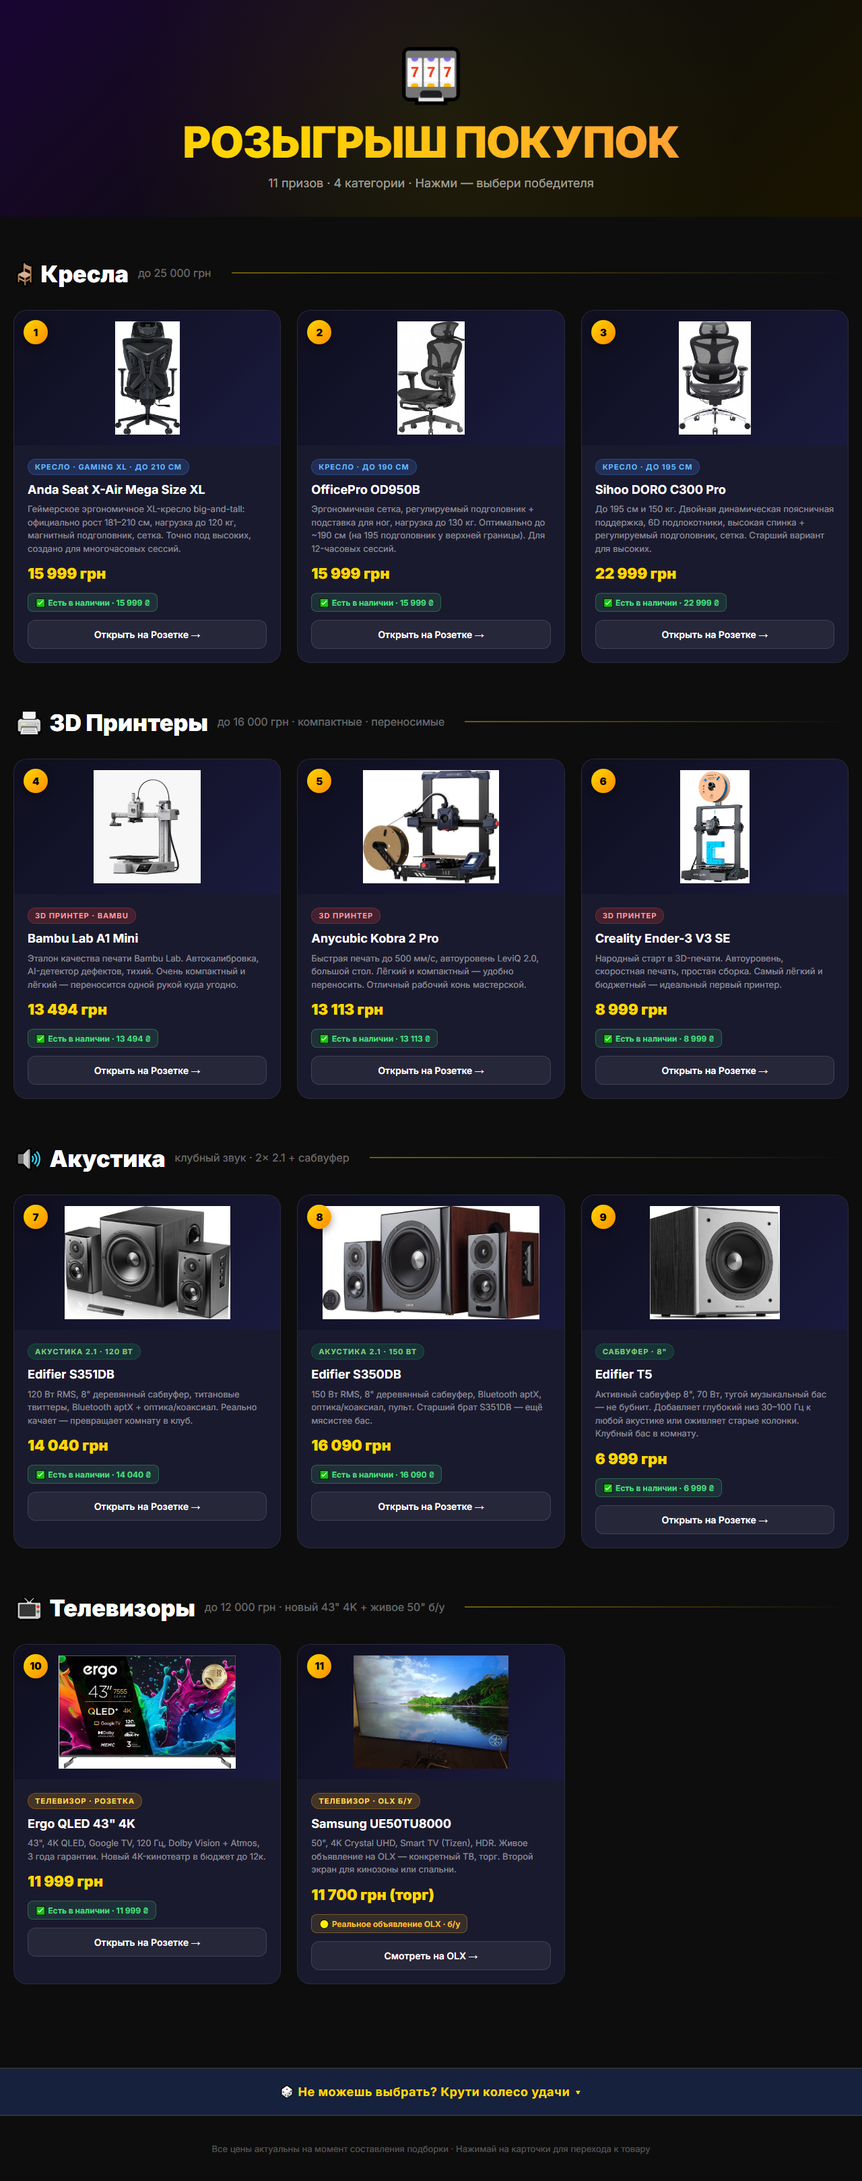
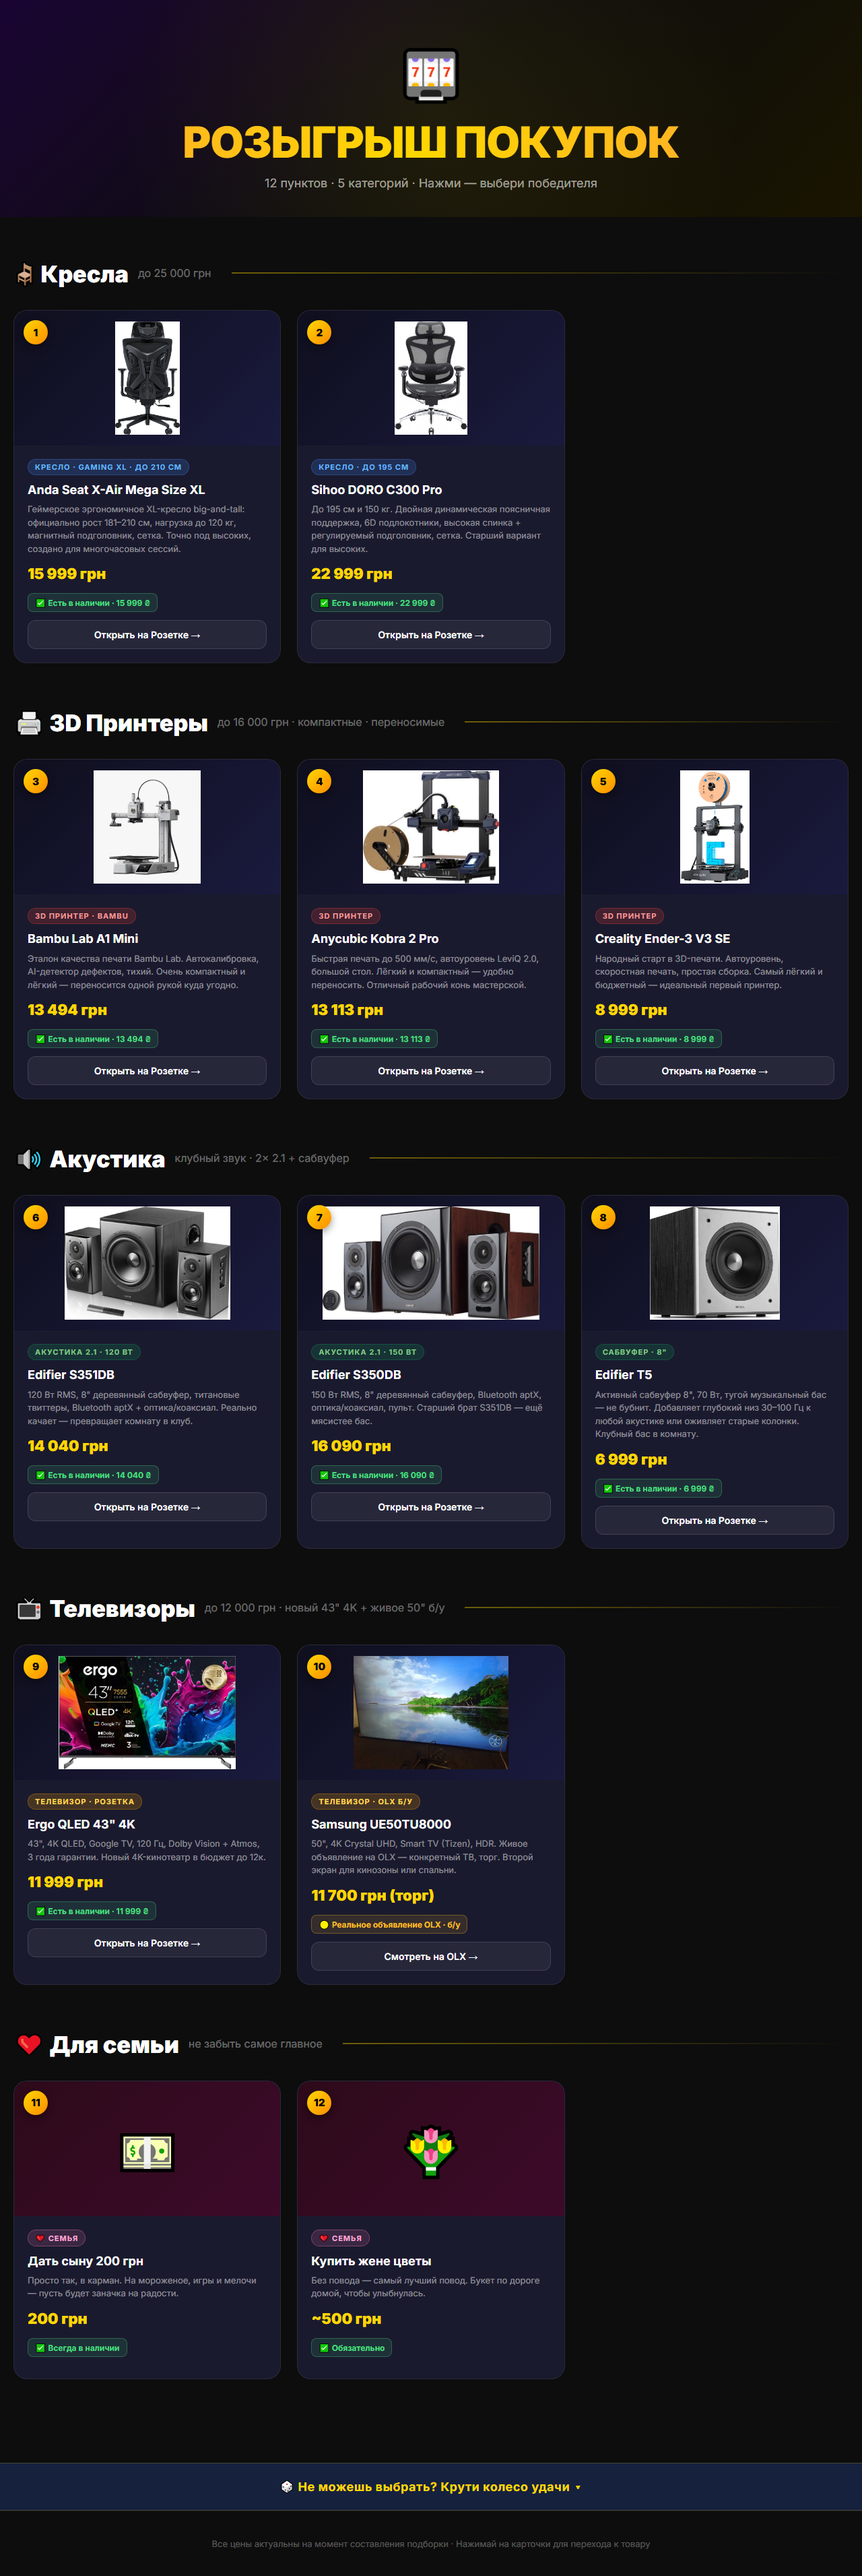
Убрать пограничное кресло OfficePro, добавить фановую категорию «Для семьи»
- Удалён OfficePro OD950B (рост ~190см, на границе для 195см); кресла теперь 2 гарантированно-высоких (AndaSeat до 210, Sihoo C300 Pro до 195)
- Перенумерованы карточки 1-12 без пропусков
- Новая категория «❤ Для семьи»: «Дать сыну 200 грн» + «Купить жене цветы»
- Шапка: 12 пунктов · 5 категорий

diff --git a/index.html b/index.html
@@ -274,7 +274,7 @@
 <header>
   <span class="header-icon">🎰</span>
   <h1>РОЗЫГРЫШ ПОКУПОК</h1>
-  <p class="subtitle">11 призов · 4 категории · Нажми — выбери победителя</p>
+  <p class="subtitle">12 пунктов · 5 категорий · Нажми — выбери победителя</p>
 </header>
 
 <!-- ТОВАРЫ -->
@@ -298,22 +298,8 @@
       </div>
     </div>
 
-    <div class="card" data-num="2" onclick="window.open('https://rozetka.com.ua/ua/officepro-od950b/p538166189/','_blank')">
+    <div class="card" data-num="2" onclick="window.open('https://rozetka.com.ua/ua/sihoo-doro-c300-pro-m101/p538166214/','_blank')">
       <div class="ticket-number">2</div>
-      <img class="product-img" src="images/chair2.jpg" alt="OfficePro OD950B" onerror="this.style.display='none';this.nextElementSibling.style.display='flex'">
-      <div class="product-img-placeholder" style="display:none">🪑</div>
-      <div class="card-body">
-        <span class="card-category-badge badge-chair">Кресло · до 190 см</span>
-        <div class="card-name">OfficePro OD950B</div>
-        <div class="card-desc">Эргономичная сетка, регулируемый подголовник + подставка для ног, нагрузка до 130 кг. Оптимально до ~190 см (на 195 подголовник у верхней границы). Для 12-часовых сессий.</div>
-        <div class="card-price">15 999 грн</div>
-        <div class="stock stock-in">✅ Есть в наличии · 15 999 ₴</div>
-        <a class="card-link" href="https://rozetka.com.ua/ua/officepro-od950b/p538166189/" target="_blank" onclick="event.stopPropagation()">Открыть на Розетке →</a>
-      </div>
-    </div>
-
-    <div class="card" data-num="3" onclick="window.open('https://rozetka.com.ua/ua/sihoo-doro-c300-pro-m101/p538166214/','_blank')">
-      <div class="ticket-number">3</div>
       <img class="product-img" src="images/p3.jpg" alt="Sihoo DORO C300 Pro" onerror="this.style.display='none';this.nextElementSibling.style.display='flex'">
       <div class="product-img-placeholder" style="display:none">🪑</div>
       <div class="card-body">
@@ -332,8 +318,8 @@
   <div class="category-title">🖨 3D Принтеры <span style="font-size:16px;color:rgba(255,255,255,0.4);font-weight:400;">до 16 000 грн · компактные · переносимые</span></div>
   <div class="grid">
 
-    <div class="card" data-num="4" onclick="window.open('https://rozetka.com.ua/ua/464214894/p464214894/','_blank')">
-      <div class="ticket-number">4</div>
+    <div class="card" data-num="3" onclick="window.open('https://rozetka.com.ua/ua/464214894/p464214894/','_blank')">
+      <div class="ticket-number">3</div>
       <img class="product-img" src="images/a1mini.jpg" alt="Bambu Lab A1 Mini" onerror="this.style.display='none';this.nextElementSibling.style.display='flex'">
       <div class="product-img-placeholder" style="display:none;background:linear-gradient(135deg,#1a0a00,#3d1a00)">🖨</div>
       <div class="card-body">
@@ -346,8 +332,8 @@
       </div>
     </div>
 
-    <div class="card" data-num="5" onclick="window.open('https://rozetka.com.ua/ua/3d_printers-anycubic-154557038/p555913074/','_blank')">
-      <div class="ticket-number">5</div>
+    <div class="card" data-num="4" onclick="window.open('https://rozetka.com.ua/ua/3d_printers-anycubic-154557038/p555913074/','_blank')">
+      <div class="ticket-number">4</div>
       <img class="product-img" src="images/third.jpg" alt="Anycubic Kobra 2 Pro" onerror="this.style.display='none';this.nextElementSibling.style.display='flex'">
       <div class="product-img-placeholder" style="display:none;background:linear-gradient(135deg,#1a0a0a,#3d0a0a)">🖨</div>
       <div class="card-body">
@@ -360,8 +346,8 @@
       </div>
     </div>
 
-    <div class="card" data-num="6" onclick="window.open('https://rozetka.com.ua/ua/creality-ender-3-v3-se/p397954095/','_blank')">
-      <div class="ticket-number">6</div>
+    <div class="card" data-num="5" onclick="window.open('https://rozetka.com.ua/ua/creality-ender-3-v3-se/p397954095/','_blank')">
+      <div class="ticket-number">5</div>
       <img class="product-img" src="images/endse.jpg" alt="Creality Ender-3 V3 SE" onerror="this.style.display='none';this.nextElementSibling.style.display='flex'">
       <div class="product-img-placeholder" style="display:none;background:linear-gradient(135deg,#000d1a,#001a3d)">🖨</div>
       <div class="card-body">
@@ -380,8 +366,8 @@
   <div class="category-title">🔊 Акустика <span style="font-size:16px;color:rgba(255,255,255,0.4);font-weight:400;">клубный звук · 2× 2.1 + сабвуфер</span></div>
   <div class="grid">
 
-    <div class="card" data-num="7" onclick="window.open('https://rozetka.com.ua/ua/591670591/p591670591/','_blank')">
-      <div class="ticket-number">7</div>
+    <div class="card" data-num="6" onclick="window.open('https://rozetka.com.ua/ua/591670591/p591670591/','_blank')">
+      <div class="ticket-number">6</div>
       <img class="product-img" src="images/speaker7.jpg" alt="Edifier S351DB" onerror="this.style.display='none';this.nextElementSibling.style.display='flex'">
       <div class="product-img-placeholder" style="display:none;background:linear-gradient(135deg,#0a1a0a,#1a2a0a)">🔊</div>
       <div class="card-body">
@@ -394,8 +380,8 @@
       </div>
     </div>
 
-    <div class="card" data-num="8" onclick="window.open('https://rozetka.com.ua/ua/581098624/p581098624/','_blank')">
-      <div class="ticket-number">8</div>
+    <div class="card" data-num="7" onclick="window.open('https://rozetka.com.ua/ua/581098624/p581098624/','_blank')">
+      <div class="ticket-number">7</div>
       <img class="product-img" src="images/p8.jpg" alt="Edifier S350DB" onerror="this.style.display='none';this.nextElementSibling.style.display='flex'">
       <div class="product-img-placeholder" style="display:none;background:linear-gradient(135deg,#0a0a1a,#1a1a0a)">🔊</div>
       <div class="card-body">
@@ -408,8 +394,8 @@
       </div>
     </div>
 
-    <div class="card" data-num="9" onclick="window.open('https://rozetka.com.ua/ua/edifier_t5_sw/p127603179/','_blank')">
-      <div class="ticket-number">9</div>
+    <div class="card" data-num="8" onclick="window.open('https://rozetka.com.ua/ua/edifier_t5_sw/p127603179/','_blank')">
+      <div class="ticket-number">8</div>
       <img class="product-img" src="images/p9.jpg" alt="Edifier T5 сабвуфер" onerror="this.style.display='none';this.nextElementSibling.style.display='flex'">
       <div class="product-img-placeholder" style="display:none;background:linear-gradient(135deg,#001a1a,#003d3d)">🔊</div>
       <div class="card-body">
@@ -428,8 +414,8 @@
   <div class="category-title">📺 Телевизоры <span style="font-size:16px;color:rgba(255,255,255,0.4);font-weight:400;">до 12 000 грн · новый 43" 4K + живое 50" б/у</span></div>
   <div class="grid" style="grid-template-columns: repeat(auto-fill, minmax(340px, 1fr));">
 
-    <div class="card" data-num="10" onclick="window.open('https://rozetka.com.ua/ua/ergo-43juq7555/p594178381/','_blank')">
-      <div class="ticket-number">10</div>
+    <div class="card" data-num="9" onclick="window.open('https://rozetka.com.ua/ua/ergo-43juq7555/p594178381/','_blank')">
+      <div class="ticket-number">9</div>
       <img class="product-img" src="images/tv10.jpg" alt="Ergo QLED 43 4K" onerror="this.style.display='none';this.nextElementSibling.style.display='flex'">
       <div class="product-img-placeholder" style="display:none">📺</div>
       <div class="card-body">
@@ -442,8 +428,8 @@
       </div>
     </div>
 
-    <div class="card" data-num="11" onclick="window.open('https://www.olx.ua/d/uk/obyavlenie/4k-50-televzor-samsung-ue50tu8000-ua-ID10lxg7.html','_blank')">
-      <div class="ticket-number">11</div>
+    <div class="card" data-num="10" onclick="window.open('https://www.olx.ua/d/uk/obyavlenie/4k-50-televzor-samsung-ue50tu8000-ua-ID10lxg7.html','_blank')">
+      <div class="ticket-number">10</div>
       <img class="product-img" src="images/olx11.jpg" alt="Samsung UE50TU8000 50 4K" onerror="this.style.display='none';this.nextElementSibling.style.display='flex'">
       <div class="product-img-placeholder" style="display:none;background:linear-gradient(135deg,#1a1400,#3d3000)">📺</div>
       <div class="card-body">
@@ -453,6 +439,36 @@
         <div class="card-price">11 700 грн (торг)</div>
         <div class="stock stock-alt">🟡 Реальное объявление OLX · б/у</div>
         <a class="card-link" href="https://www.olx.ua/d/uk/obyavlenie/4k-50-televzor-samsung-ue50tu8000-ua-ID10lxg7.html" target="_blank" onclick="event.stopPropagation()">Смотреть на OLX →</a>
+      </div>
+    </div>
+
+  </div>
+
+  <!-- СЕМЬЯ / ФАН -->
+  <div class="category-title">❤ Для семьи <span style="font-size:16px;color:rgba(255,255,255,0.4);font-weight:400;">не забыть самое главное</span></div>
+  <div class="grid">
+
+    <div class="card" data-num="11">
+      <div class="ticket-number">11</div>
+      <div class="product-img-placeholder" style="background:linear-gradient(135deg,#2d0a1a,#3d0a2a)">💵</div>
+      <div class="card-body">
+        <span class="card-category-badge" style="background:rgba(244,114,182,0.15);color:#f9a8d4;border:1px solid rgba(244,114,182,0.35)">❤ Семья</span>
+        <div class="card-name">Дать сыну 200 грн</div>
+        <div class="card-desc">Просто так, в карман. На мороженое, игры и мелочи — пусть будет заначка на радости.</div>
+        <div class="card-price">200 грн</div>
+        <div class="stock stock-in">✅ Всегда в наличии</div>
+      </div>
+    </div>
+
+    <div class="card" data-num="12">
+      <div class="ticket-number">12</div>
+      <div class="product-img-placeholder" style="background:linear-gradient(135deg,#2d0a1a,#3d0a2a)">💐</div>
+      <div class="card-body">
+        <span class="card-category-badge" style="background:rgba(244,114,182,0.15);color:#f9a8d4;border:1px solid rgba(244,114,182,0.35)">❤ Семья</span>
+        <div class="card-name">Купить жене цветы</div>
+        <div class="card-desc">Без повода — самый лучший повод. Букет по дороге домой, чтобы улыбнулась.</div>
+        <div class="card-price">~500 грн</div>
+        <div class="stock stock-in">✅ Обязательно</div>
       </div>
     </div>
 
